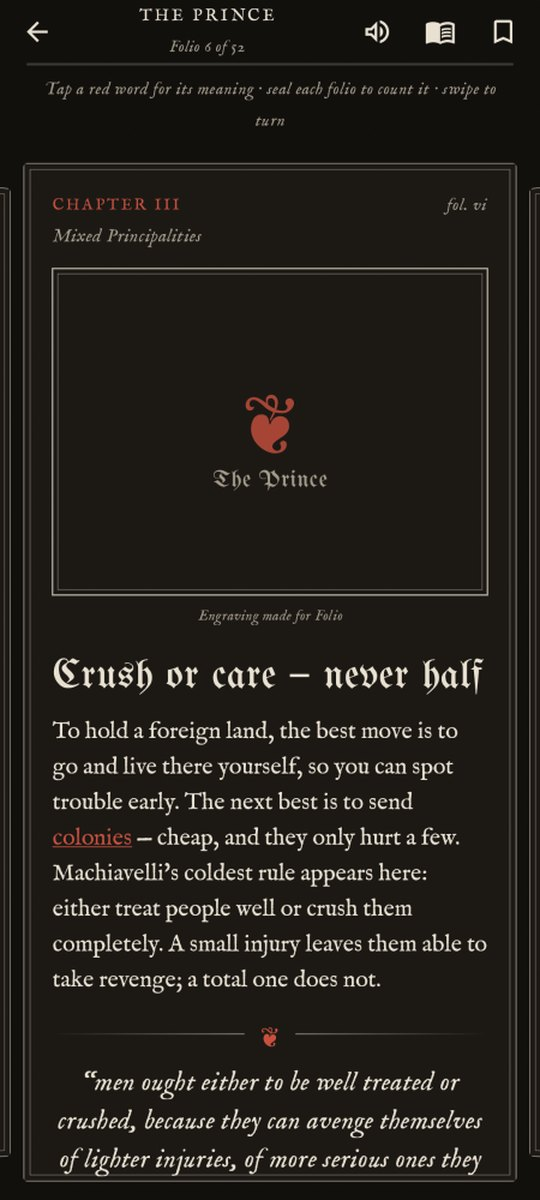
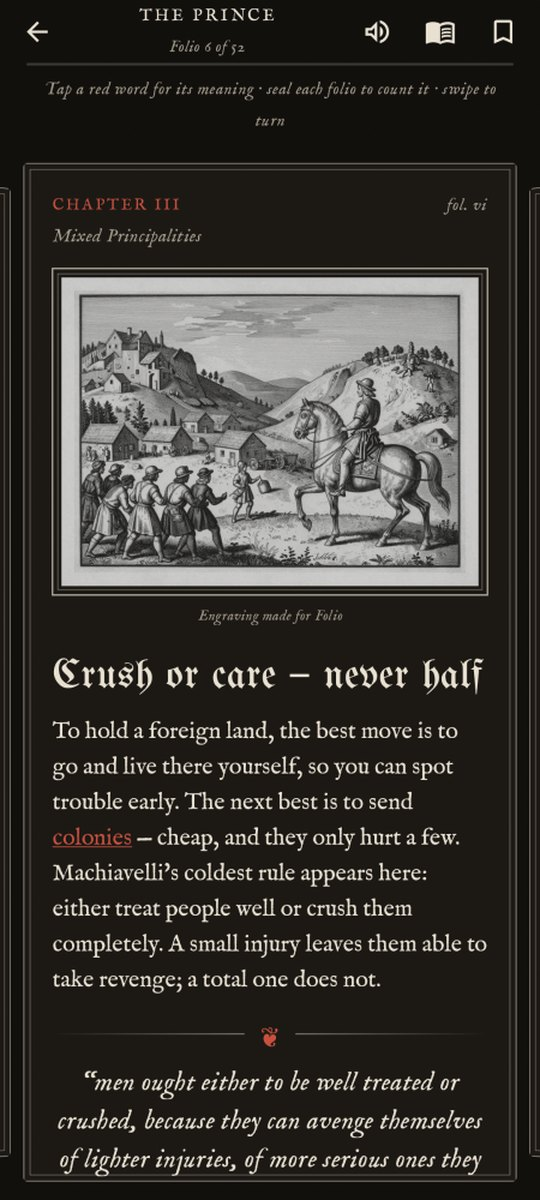
Snapshots render engravings; refreshed README screens

Changed region(s): [[0.0889, 0.2158, 0.8889, 0.4933]]

diff --git a/app/src/main/java/com/purval/folio/Ornaments.kt b/app/src/main/java/com/purval/folio/Ornaments.kt
@@ -41,6 +41,7 @@ import androidx.compose.ui.graphics.asImageBitmap
 import androidx.compose.ui.graphics.drawscope.Stroke
 import androidx.compose.ui.layout.ContentScale
 import androidx.compose.ui.platform.LocalContext
+import androidx.compose.ui.platform.LocalInspectionMode
 import androidx.compose.ui.platform.LocalDensity
 import androidx.compose.ui.text.AnnotatedString
 import androidx.compose.ui.text.LinkAnnotation
@@ -140,16 +141,17 @@ private val imgCache = LruCache<String, ImageBitmap>(20)
 fun rememberPlate(book: Book, name: String?): ImageBitmap? {
     val ctx = LocalContext.current
     val key = "${book.id}/${book.version}/$name"
-    val v by produceState(imgCache[key], key) {
-        if (value == null && name != null) value = withContext(Dispatchers.IO) {
-            runCatching {
-                val f = book.dir?.let { File(it, "$name.webp") }
-                val bmp = if (f != null && f.exists()) BitmapFactory.decodeFile(f.path)
-                else if (book.imported) null
-                else ctx.assets.open("img/$name.webp").use { BitmapFactory.decodeStream(it) }
-                bmp?.asImageBitmap()?.also { imgCache.put(key, it) }
-            }.getOrNull()
-        }
+    fun load(): ImageBitmap? = if (name == null) null else runCatching {
+        val f = book.dir?.let { File(it, "$name.webp") }
+        val bmp = if (f != null && f.exists()) BitmapFactory.decodeFile(f.path)
+        else if (book.imported) null
+        else ctx.assets.open("img/$name.webp").use { BitmapFactory.decodeStream(it) }
+        bmp?.asImageBitmap()?.also { imgCache.put(key, it) }
+    }.getOrNull()
+    // previews and snapshots render a single frame, so they decode up front; the app decodes off the main thread
+    val first = imgCache[key] ?: if (LocalInspectionMode.current) load() else null
+    val v by produceState(first, key) {
+        if (value == null && name != null) value = withContext(Dispatchers.IO) { load() }
     }
     return v
 }

diff --git a/app/src/test/java/com/purval/folio/Shots.kt b/app/src/test/java/com/purval/folio/Shots.kt
@@ -21,7 +21,8 @@ class Shots {
             app.books += Shelf.parse(org.json.JSONObject(java.io.File("src/main/assets/books/$it.json").readText()), false)
         }
         paparazzi.snapshot {
-            androidx.compose.runtime.CompositionLocalProvider(androidx.activity.compose.LocalActivityResultRegistryOwner provides NoResults) {
+            androidx.compose.runtime.CompositionLocalProvider(androidx.activity.compose.LocalActivityResultRegistryOwner provides NoResults,
+                androidx.compose.ui.platform.LocalInspectionMode provides true) {
                 FolioTheme(night) { Box(Modifier.fillMaxSize().paper(LocalInk.current.page, LocalInk.current)) { body(app) } }
             }
         }

diff --git a/app/src/test/java/com/purval/folio/BookcaseShots.kt b/app/src/test/java/com/purval/folio/BookcaseShots.kt
@@ -31,7 +31,7 @@ class BookcaseShots {
         }
         app.catalog = Library.Catalog(null, remote)
         paparazzi.snapshot {
-            FolioTheme(night) { Box(Modifier.fillMaxSize().paper(LocalInk.current.page, LocalInk.current)) { BookcaseScreen(app, { _, _ -> }, {}) } }
+            androidx.compose.runtime.CompositionLocalProvider(androidx.compose.ui.platform.LocalInspectionMode provides true) { FolioTheme(night) { Box(Modifier.fillMaxSize().paper(LocalInk.current.page, LocalInk.current)) { BookcaseScreen(app, { _, _ -> }, {}) } } }
         }
     }
 }
